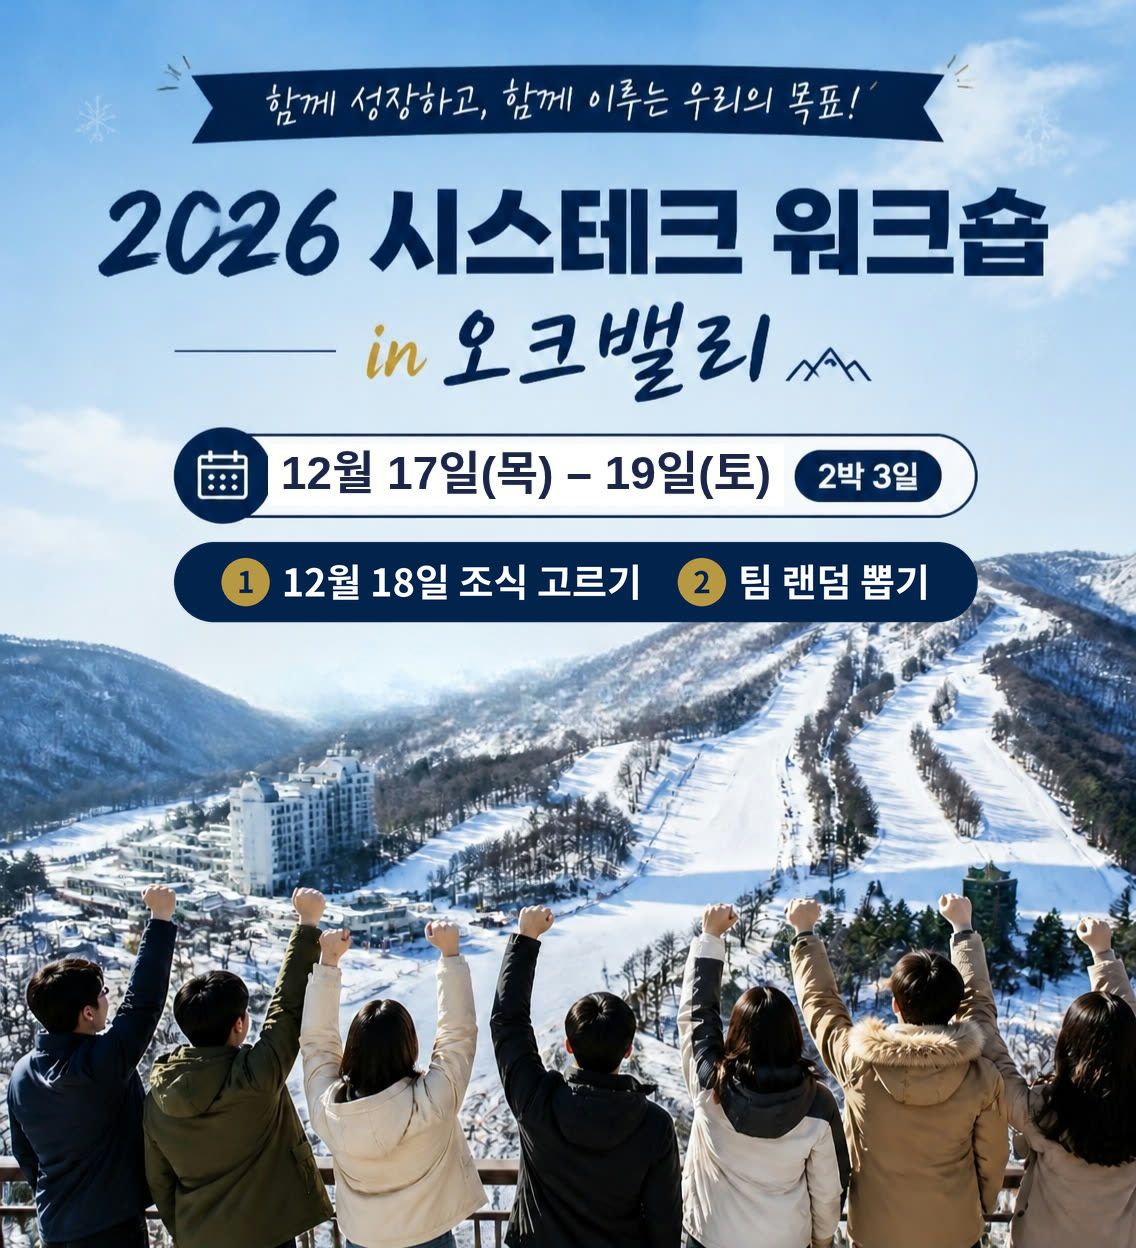
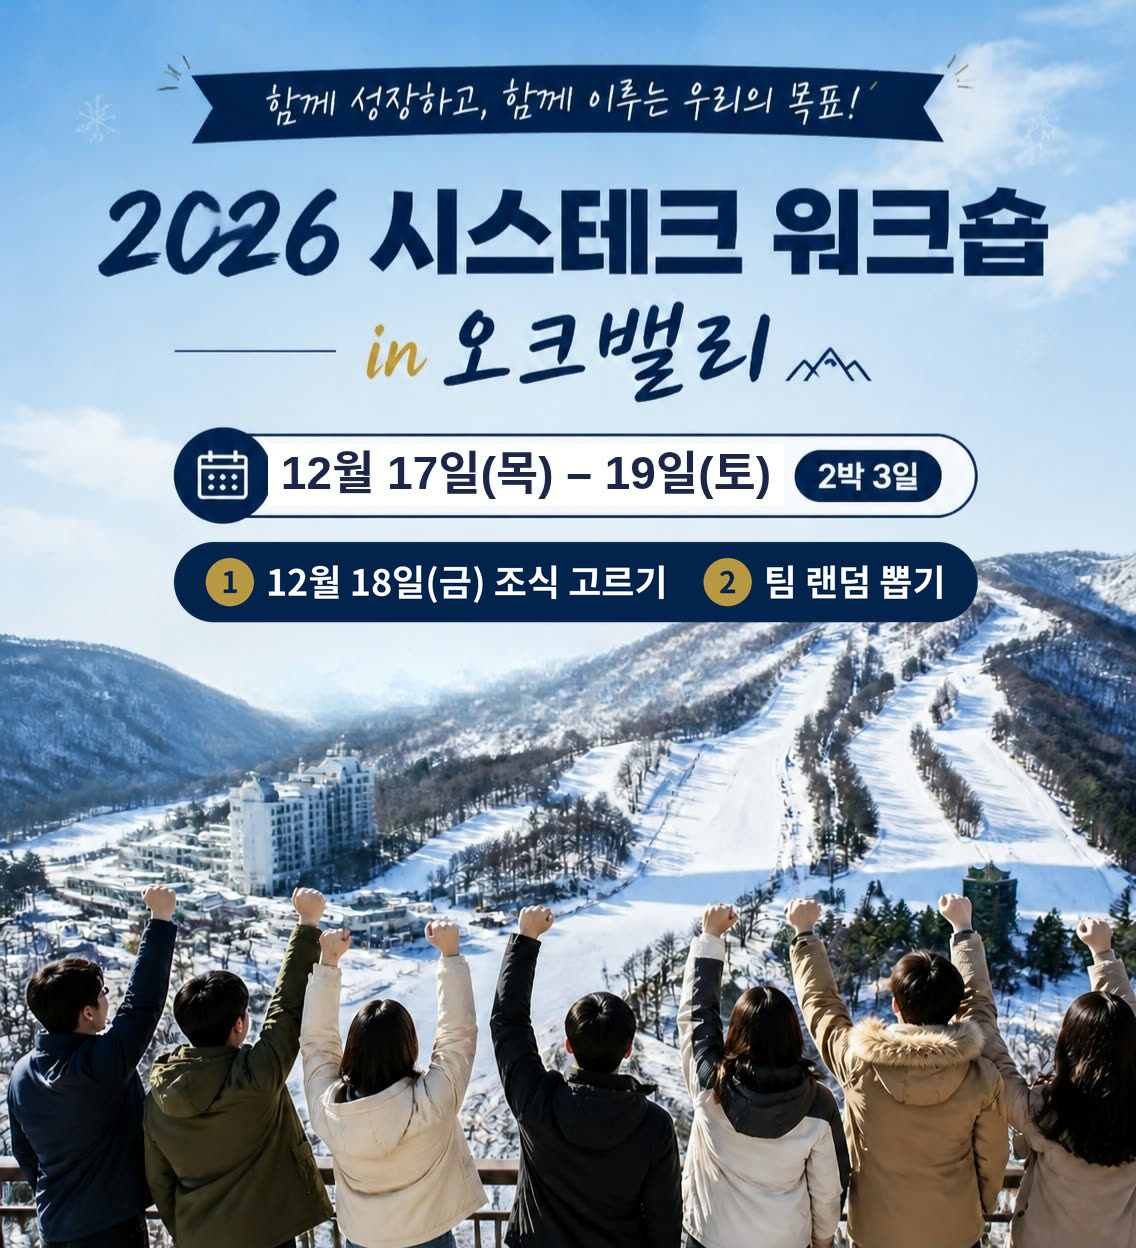
첫 화면 안내 그림 교체, 진행자 화면에 메뉴별로 고른 사람 표시
- 안내 그림: "12월 18일(금) 조식 고르기"로 바뀐 새 그림(예전 그림이 휴대폰에 남지 않게 poster.jpg?v=2)
- 진행자 화면의 조식 칸: 메뉴마다 인원과 고른 사람 이름, 아직 안 고른 사람

Changed region(s): [[0.1849, 0.4375, 0.8319, 0.5]]

diff --git a/board.html b/board.html
@@ -28,6 +28,11 @@
     .chips { display: flex; flex-wrap: wrap; gap: 6px; }
     .chip { background: var(--chip); border-radius: 999px; padding: 3px 12px; font-size: 14px; }
     .empty { color: var(--muted); font-size: 14px; }
+    /* 조식: 메뉴마다 "메뉴 이름 N명" + 고른 사람들 */
+    .menu-group + .menu-group { margin-top: 16px; }
+    .menu-group p { margin: 0 0 6px; font-size: 14px; font-weight: 600; }
+    .menu-group p b { font-size: 17px; }
+    .menu-group.none p { color: var(--muted); font-weight: 400; }
     details.card > summary { cursor: pointer; font-weight: 600; }
     details.card[open] > summary { margin-bottom: 14px; }
     .people { width: 100%; border-collapse: collapse; font-size: 14px; margin: 8px 0 16px; }
@@ -69,11 +74,7 @@
 
     <section class="card">
       <h2>12월 18일 금요일 조식 <small id="menuCount"></small></h2>
-      <div class="chips" id="menus"></div>
-      <div id="noMenuBox" hidden>
-        <p class="hint" style="margin: 14px 0 6px">아직 메뉴를 안 고른 사람</p>
-        <div class="chips" id="noMenu"></div>
-      </div>
+      <div id="menus"></div>
     </section>
 
     <details class="card" id="admin">
@@ -135,12 +136,17 @@
       ? waiting.map(chip).join('')
       : `<span class="empty">${people.length ? '모두 뽑았어요!' : '아직 명단이 없어요. 아래 명단 관리에서 추가하세요.'}</span>`;
 
-    // 조식: 메뉴별 인원 + 아직 안 고른 사람
+    // 조식: 메뉴마다 고른 사람들(부서·이름순) + 아직 안 고른 사람
+    const byName = (a, b) => a.dept.localeCompare(b.dept, 'ko') || a.name.localeCompare(b.name, 'ko');
+    const group = (title, list, cls = '') => `
+      <div class="menu-group ${cls}">
+        <p>${title} <b>${list.length}</b>명</p>
+        <div class="chips">${[...list].sort(byName).map(chip).join('') || '<span class="empty">아직 없어요</span>'}</div>
+      </div>`;
     const noMenu = people.filter((p) => !p.menu);
     $('#menuCount').textContent = `고름 ${people.length - noMenu.length}명 · 안 고름 ${noMenu.length}명`;
-    $('#menus').innerHTML = MENU_KEYS.map((m) => `<span class="chip">${MENUS[m]} <b>${people.filter((p) => p.menu === m).length}</b>명</span>`).join('');
-    $('#noMenuBox').hidden = !noMenu.length;
-    $('#noMenu').innerHTML = noMenu.map(chip).join('');
+    $('#menus').innerHTML = MENU_KEYS.map((m) => group(MENUS[m], people.filter((p) => p.menu === m))).join('')
+      + (noMenu.length ? group('아직 안 고른 사람', noMenu, 'none') : '');
 
     if (editing == null) renderTable();
   }

diff --git a/index.html b/index.html
@@ -88,8 +88,9 @@
 <main class="narrow">
   <!-- 화면마다 맨 위에 하나씩: 로그인 = 워크숍 안내 그림, 메뉴 고르기 = 날짜, 팀 뽑기 = 제목. 처음에는 안내 그림부터 보임 -->
   <header id="headLogin">
-    <img src="poster.jpg" width="1136" height="1248"
-         alt="2026 시스테크 워크숍 in 오크밸리. 12월 17일(목)부터 19일(토)까지 2박 3일. 1. 12월 18일 조식 고르기, 2. 팀 랜덤 뽑기" />
+    <!-- 그림을 바꾸면 v 숫자를 올린다(휴대폰에 남아 있는 예전 그림이 계속 보이지 않게) -->
+    <img src="poster.jpg?v=2" width="1136" height="1248"
+         alt="2026 시스테크 워크숍 in 오크밸리. 12월 17일(목)부터 19일(토)까지 2박 3일. 1. 12월 18일(금) 조식 고르기, 2. 팀 랜덤 뽑기" />
   </header>
   <header id="headPick" hidden>
     <h1>팀 뽑기</h1>

diff --git a/README.md b/README.md
@@ -45,7 +45,7 @@
   - 이미 뽑은 사람을 고쳐도 팀은 그대로예요.
   - 같은 부서에 같은 이름이 이미 있으면 저장되지 않아요.
 - **잘못 뽑힌 사람:** 명단 표에서 **다시 뽑기**를 누르면, 그 사람이 **뽑아봐!**를 다시 누를 수 있어요. **다시 뽑기**와 **전체 다시 뽑기**는 팀만 지우고 조식 메뉴는 그대로 둬요.
-- **조식 메뉴 집계:** 진행자 화면의 **12월 18일 금요일 조식** 칸에 메뉴별 인원과 아직 안 고른 사람이 나와요.
+- **조식 메뉴 집계:** 진행자 화면의 **12월 18일 금요일 조식** 칸에 메뉴마다 인원과 고른 사람 이름이 나오고, 아직 안 고른 사람도 따로 나와요.
 - **메뉴를 잘못 고른 사람:** 참가자는 못 바꾸지만 진행자는 바꿀 수 있어요. 명단 표에서 **수정**을 누르고 조식 칸을 바꾼 뒤 **저장**하면 돼요. `-`로 두고 저장하면 그 사람이 메뉴를 다시 고를 수 있어요.
 
 ## 알아둘 점
